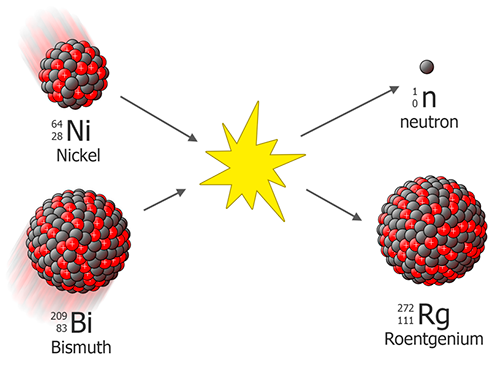
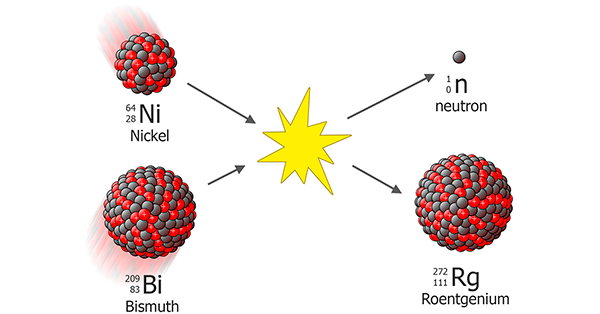
image size updated

diff --git a/en/2014-12-08-20-years-ago-the-scientists-first-time-created-element-111-roentgenium.md b/en/2014-12-08-20-years-ago-the-scientists-first-time-created-element-111-roentgenium.md
@@ -1,23 +1,23 @@
 ---
 layout: blog-post
-title: 20 years ago the scientists first time created element number 111 - Roentgenium
+title: 20 years ago, scientists created the element 111 - Roentgenium
 type: blog-post
 author: Vassili Philippov
-post-image: <img src="/images/roentgenium.png" width="600" height="439" alt="Roentgenium">
+post-image: <img src="/images/roentgenium.png" width="600" height="314" alt="Roentgenium">
 og-image: /images/facebook/roentgenium-thumbnail.png
 language: en
 post-id: 2014-11-18
 hidden: yes
 ---
-20 years ago the scientists first time created element #111 - Roentgenium. Who would care about an element that lived less than one second? Read how our life is obligated to another element which life is billions times shorter.
+20 years ago, scientists created the element #111. Who would care about an element that lived less than one second? Read how our life is obligated to another element whose life is billions of times shorter.
 <!-- more -->
 
 ---
-Today we celebrate 20 years as a team of scientists led by German physicist Sigurd Hofmann created a new element #111 called Roentgenium. We say created not discovered because this element did not exist on our planet before. How could you create a new element? You take two lighter nucleus (in that case, it was element #83 and element #28), accelerate one of them and smash to the second. If you choose right speed, which is fast enough to break the repulsion barrier, but not too fast to blow up all protons and neutrons you could get a new element.
+Today, we celebrate 20 years as a team of scientists led by German physicist Sigurd Hofmann who created a new element #111 called Roentgenium. We say created and not discovered because this element did not exist on our planet before. How can you create a new element? You take two lighter nuclei (in that case, it was element #83 and element #28), accelerate one of them and smash it into the second. If you choose the right speed, which is fast enough to break the repulsion barrier, but not too fast to blow up all the protons and neutrons you could get a new element.
 
-<img src="/images/roentgenium.png" width="600" height="439" alt="Roentgenium">
+<img src="/images/roentgenium.png" width="600" height="314" alt="Roentgenium">
 
-That is what they did in the GSI Helmholtz Centre for Heavy Ion Research near Darmstadt, Germany. Just three atoms of the new element where produced which decay in less than one hundredth of a second. 
+That is what they did in the GSI Helmholtz Centre for Heavy Ion Research near Darmstadt, Germany. Just three atoms of the new element were produced which decay in less than one hundredth of a second. 
 
 When you create a new element, you have to wait until independent experts could reproduce your experiment before the new element is officially accepted by IUPAC and a name is given. It took ten years for Roentgenium to be officially recognized. Before that, the element was known under a temporary name "Unununium". Which is based on its number 111: un (one) un (one) un (one) ium. There are five elements now that do not have their names yet and are known under their temporary names:
 
@@ -29,15 +29,15 @@ When you create a new element, you have to wait until independent experts could 
 
 Almost all of them were first created by the Joint Institute for Nuclear Research in Dubna, Russia.
 
-Why anyone should care about an element that decay much faster than the time it takes you to blink? I do not know how this particular element could be useful but let me show you one example how existence of our life is obligated to another element which life is even shorter, billions times shorter.
+Why should anyone care about an element that decays much faster than the time it takes you to blink? I do not know how this particular element could be useful but let me show you one example of how the existence of our life is obligated to another element wherein its life is even shorter, billions of times shorter.
 
-The story will be about element #4 - Beryllium. Most of beryllium existing has 4 protons and 5 neutrons. Such beryllium is stable and does not decay. However, there is another form of beryllium, which has 4 protons and only 4 neutrons. Such beryllium-8 is very unstable. Half-life is less than one billionth of a second. Nevertheless, if it would not exist the entire world as we know it would be very different. 
+The story will be about element #4 - Beryllium. Most of beryllium existing has 4 protons and 5 neutrons. Such beryllium is stable and does not decay. However, there is another form of beryllium, which has 4 protons and only 4 neutrons. Such beryllium-8 is very unstable. The half-life is less than one billionth of a second. Nevertheless, if it would not exist, the entire world as we know it would be very different. 
 
-As you know, only the lightest elements hydrogen and helium were produced during the big bang. All other elements are produced in the stars. Right now our Sun producing helium by fusing hydrogen. When the star starts to run out of hydrogen to fuse, it starts to collapse. Temperature increases to hundred million degrees to create conditions for helium to fuse. The next stable element that can be formed from helium is carbon-12. It requires three helium-4 to fuse. A chance that three helium nucleus meet together in one place is very low. If two helium nucleus collide they form beryllium-8 which as was said is very unstable and lives less than one billionth of a second but this time is big enough that there is a chance the third helium will collide to form stable carbon-12. 
+As you know, only the lightest elements hydrogen and helium were produced during the big bang. All the other elements are produced in stars. Right now our Sun is producing helium by fusing hydrogen. When the star starts to run out of hydrogen to fuse, it starts to collapse. The temperature increases to a hundred million degrees to create conditions for helium to fuse. The next stable element that can be formed from helium is carbon-12. It requires three helium-4 to fuse. The chance that three helium nuclei meet together in one place is very low. If two helium nuclei collide they form beryllium-8 which, as was said, is very unstable and lives less than one billionth of a second but this time it is big enough that there is a chance that the third helium will collide to form stable carbon-12. 
 
 <img src="/images/carbon-synthesis.png" width="600" height="403" alt="Carbon synthesis">
 
-It is a short story how existence of carbon and all heavier elements that form life on our Earth and Earth itself depend on one element beryllium-8 with half-life time is less than 0.0000000000000001 seconds. Does it answer if element #111 Roentgenium could have any influence on our life? I do not think so. But the things are often not as simple as they seem when we think if some knowledge is useful or not. May be now you will be more interested to watch a short video about creation of Roentgenium that happened 20 years ago.
+It is a short story of how the existence of carbon and all heavier elements that form life on our Earth and the Earth itself depend on one element beryllium-8 where the half-life time is less than 0.0000000000000001 seconds. Does it answer the question of theelement #111 Roentgenium could have any influence on our life? I do not think so. However, things are often not as simple as they seem when we think if some knowledge is useful or not. Maybe now you will be more interested in watching a short video about the creation of Roentgenium that happened 20 years ago.
 
 <iframe width="640" height="360" src="http://www.youtube.com/embed/MTq1hzhCF0g?rel=0" frameborder="0" allowfullscreen></iframe>
 
